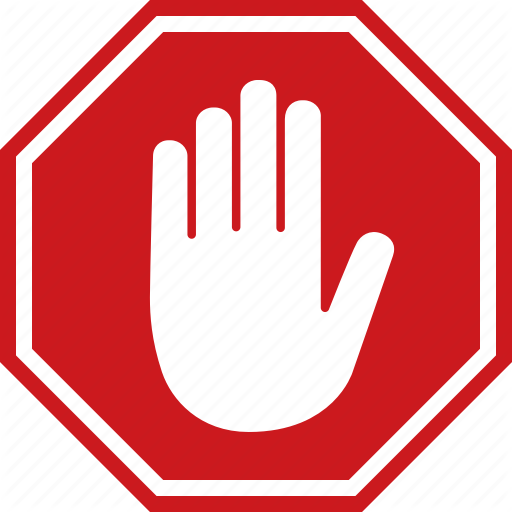
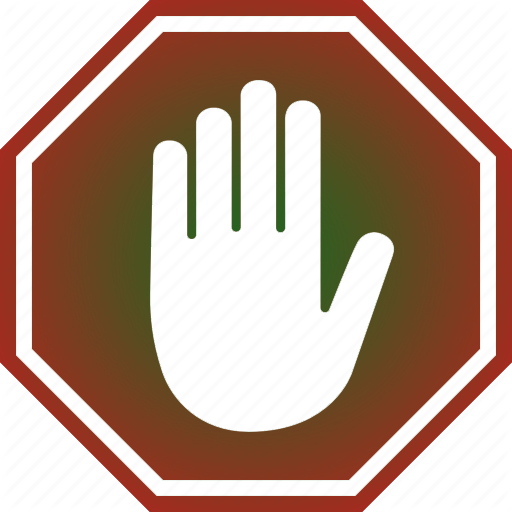
Second edition css

diff --git a/css/index.css b/css/index.css
@@ -1,8 +1,8 @@
 @import url('https://fonts.googleapis.com/css?family=Comfortaa|Didact+Gothic&display=swap');
 
 :root {
-    --accent-color: #81bbbd;
-    --main-color: black;
+    --accent-color: #61892f;
+    --main-color: #1F6521;
     font-family: 'Didact Gothic', sans-serif;
     scroll-behavior: smooth;
 }
@@ -18,16 +18,20 @@ header {
 }
 
 header nav .logo {
-    font-family: 'Didact Gothic', sans-serif;
-    font-size: 3.3rem;
+    /* font-family: 'Didact Gothic', sans-serif;
+    font-size: 3.3rem; */
     text-align: center;
     color: var(--accent-color);
     margin-top: -2px;
 }
 
+header nav .logo img {
+    width:80px;
+}
+
 header nav .menu {
-    font-size:16px;
-    font-family: 'Didact Gothic', sans-serif;
+    font-size:20px;
+    /* font-family: 'Didact Gothic', sans-serif; */
     display: flex;
     justify-content: space-around;
     padding: 0;
@@ -37,13 +41,13 @@ header nav .menu {
 header nav .menu a {
     text-decoration: none;
     text-transform: uppercase;
-    color: var(--main-color);
+    color: var(--accent-color);
     border: 1px solid transparent;
     padding: 5px;
 }
 
 header nav .menu a:hover {
-    border: 1px solid var(--accent-color);
+    border: 1px solid #079376;
 }
 
 @media (min-width: 550px) {
@@ -58,11 +62,11 @@ header nav .menu a:hover {
 }
 
 header .banner {
-    background-image:
-        linear-gradient(
-            rgba(0, 8, 4, 0.4),
-            rgba(0, 0, 0, 0.4)),
-        url(../img/green.jpg);
+    background-image: url(../img/nature.jpg);
+        /* linear-gradient(
+            rgba(0, 8, 4, 0.45),
+            rgba(0, 0, 0, 0.6)),
+        url(../img/green.jpg); */
     background-size: cover;
     background-position: center;
     min-height: 500px;
@@ -72,14 +76,19 @@ header .banner {
     flex-direction: column;
 }
 
+header .banner .green-back {
+    background: var(--accent-color); 
+    padding:20px;
+}
+
 header h1 .greenname {
-    font-size: 3,5rem;
+    font-size: 2.8rem;
     color: rgb(255, 255, 255);
     text-shadow: black 0 0 10px;
 }
 
 header h1 {
-    font-size:50px;
+    font-size:1.8rem;
     font-family: 'Comfortaa', cursive;
     color: rgb(255, 255, 255);
     text-shadow: black 0 0 7px;
@@ -103,9 +112,9 @@ header p {
     justify-content: center;
 }
 
-main a:visited{
+/* main a:visited{
     color: #7C00CF;
-}
+} */
 
 @media (min-width: 980px) {
 #category{
@@ -124,13 +133,13 @@ main a:visited{
 }
 
 #category .progress{
-    background-color: #45CC80;
+    background-color: var(--main-color);
     display: flex;
     justify-content: center;
 }
 
 #category .climate{
-    background-color: #009942;
+    background-color: var(--accent-color);
     display: flex;
     justify-content: center;
 }
@@ -140,7 +149,7 @@ main a:visited{
 }
 
 #category .energy{
-    background-color: #C6F5BC;
+    background-color: var(--main-color);
     display: flex;
     justify-content: center;
 }
@@ -155,28 +164,28 @@ main a:visited{
 }
 
 #category h1 {
-    color: #7C00CF;
+    color: white;
     font-size:1.4rem;
 }
 
-#quote {
+/* #quote {
     display: grid;
     grid-template-columns: 5% 90% 5%;
-}
+} */
 
-#quote p{
+/* #quote p{
     grid-column-start: 2;
     background-color:#C6F5BC;
     min-height: 60px;
     font-size: 1.2rem;
-}
+} */
 
 section{
     color:black;
 }
 
 #eventsName {
-    background-color:#45CC80;
+    background-color: var(--accent-color);
     margin-bottom: 10px;
     display: flex;
     justify-content: center;
@@ -208,8 +217,8 @@ article.events-block img {
 }
 
 h2.contact {
-    color: #7C00CF;
-    background-color: #E68FF2;
+    color: white;
+    background-color: var(--accent-color);
     display: flex;
     justify-content: center;
 }
@@ -219,31 +228,38 @@ h2.contact {
 }
 
 input[type="text"], [type="email"] {
-    width: 99%;
+    width: 90%;
+    padding: 0 auto;
 }
 
 textarea {
-    width: 99%;
+    width: 90%;
     height: 90px;
 }
 
 label {
-    color: #7C00CF;
+    color: var(--accent-color);
 }
 
 input, textarea {
      background-color: rgba(255, 255, 255, 0.4);
-     border: 3px solid rgba(122, 192, 0, 0.4);
+     border: 1px solid var(--accent-color);
      padding: 2px;
      color: #4b4b4b;
+     font-family: 'Didact Gothic', sans-serif;
+}
+
+#message {
+    width: ;
+    display: grid;
+    grid-area: auto;
 }
 
 #message form input[type="submit"] {
     border: none;
     cursor: pointer;
-    color: #7C00CF;
-    font-size: px;
-    background-color: #E68FF2;
+    color: white;
+    background-color: var(--accent-color);
     padding: 5px 36px 8px 36px;
     border-bottom: 1px solid rgba(0, 0, 0, 0.4);
     border-top: 1px solid rgba(255, 255, 255, 0.6);
@@ -254,7 +270,7 @@ input, textarea {
 input[type="submit"]:hover {
     color: #fff;
     border-bottom: 1px solid rgba(0, 0, 0, 0.4);
-    background-color: #E68FF2;
+    background-color: var(--accent-color);
 }
 
 input[type="submit"]:active {
@@ -262,10 +278,10 @@ input[type="submit"]:active {
 }
 
 h1 {
-    color:#7C00CF;
-    font-size:22px;
+    color: white;
+    font-size:1.3rem;
 }
-
+/* 
 h2 {
     color:#021f54;
 }
@@ -273,7 +289,7 @@ h2 {
 h3 {
     color:#4169E1;
     font-style: italic;
-}
+} */
 
 p {
     color:black;

diff --git a/index.html b/index.html
@@ -13,7 +13,7 @@
 
         <header>
             <nav>
-                <div class="logo">Green</div>
+                <div class="logo"><img src="img/logo.png"></div>
                  <ul class="menu" >
                     <li><a href="#home">Домівка</a></li>
                     <li><a href="events.html">Події</a</li>
@@ -26,8 +26,12 @@
                 </form>
             </nav>
             <div class="banner">
-                <a href="about.html"><h1><span class="greenname">GREEN</span>`you Землю</h1>
-                <p>еко-ініціатива</p></a>
+                <div class="green-back">
+                    <a href="about.html">
+                        <h1><span class="greenname">GREEN</span>`you Землю</h1>
+                        <p>еко-ініціатива</p>
+                    </a>
+                </div>
             </div>
         </header>
         <main>
@@ -103,23 +107,23 @@
                      </article>
                 </div>
 
-                <div id="message">
-                    <h2 class="contact">Напишіть нам...</h2>
+                <h2 class="contact">Напишіть нам...</h2>
 
-                    <form id="contactform" method="POST" action="https://formspree.io/olyastef@gmail.com">
-                        <p class="contact"><label>Ім'я
-                        <br>
-                            <input type="text" placeholder="Ім'я" name="mame">
-                        </label></p>
+                <div id="message">
+                   <form id="contactform" method="POST" action="https://formspree.io/olyastef@gmail.com">
+                        
+                        <p class="contact"><label for="name">Ім'я</label></p>
+                            <input type="text" placeholder="Ім'я" id="name" name="mame" required="">
+                        
                         <p class="contact"><label for="email">Електронна адреса</label></p>
-                            <input type="email"  placeholder="Email Address" id="email" name="email">
+                            <input type="email"  placeholder="Email Address" id="email" name="email" required="">
 
                         <p class="contact"><label for="subject">Тема</label></p>
-                            <input type="text" placeholder="subject" id="subject" name="subject"  required="" tabindex="2">
+                            <input type="text" placeholder="Subject" id="subject" name="subject"  required="" tabindex="2">
 
-                        <p class="contact"><label for="comment">Текст повідомлення
-                            <textarea placeholder="Ваше повідомлення" name="comment" id="comment" tabindex="4"></textarea> <br>
-                         </label></p>
+                        <p class="contact"><label for="comment">Текст повідомлення</label></p>
+                            <textarea placeholder="Ваше повідомлення" name="comment" id="comment" required="" tabindex="4"></textarea>
+                         
                         <input type="submit" name="submit" id="submit" tabindex="5" value="Відправити">
                     </form>
                 </div>
